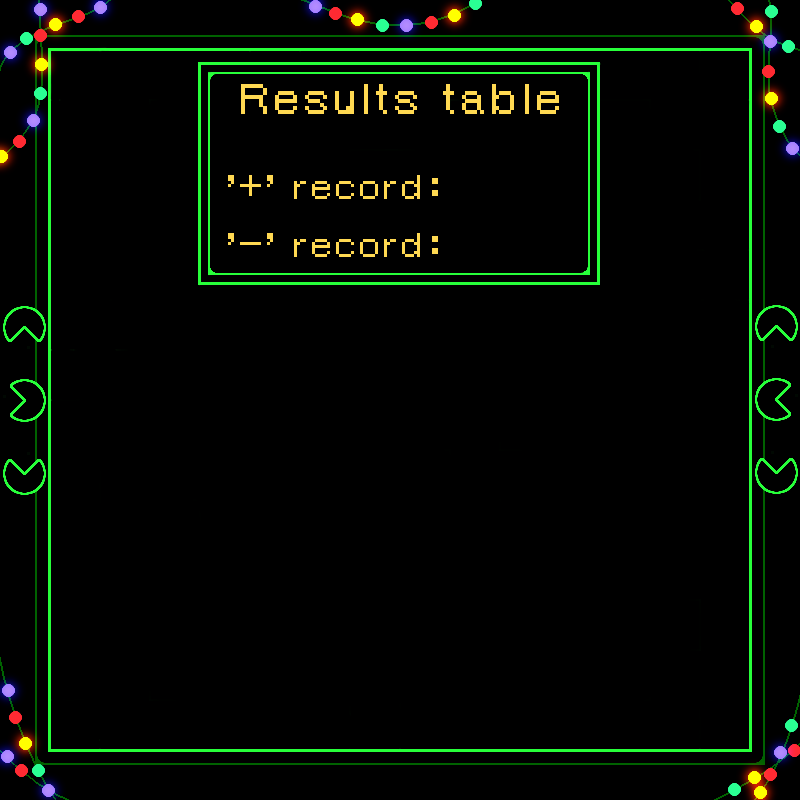
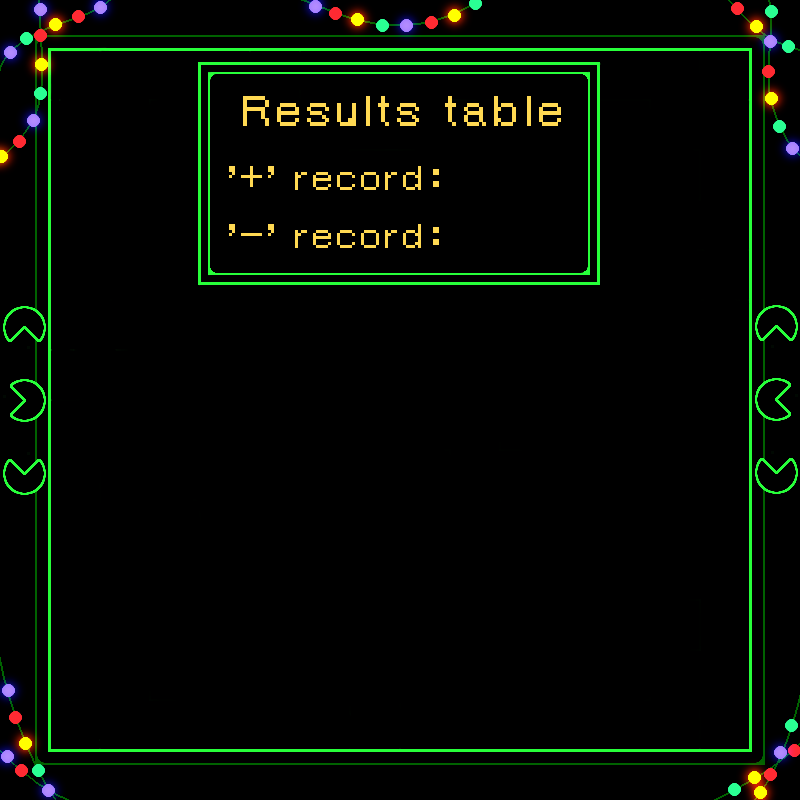
text fixed

diff --git a/main.py b/main.py
@@ -493,16 +493,18 @@ while not not_results:
         for i in range(len(all_results_text)):
             x = i // (len(all_results_text) // 2) * 390
             y = 345 + i % (len(all_results_text) // 2) * 27
-            screen.blit(all_results_text[i][0], (x + 70, y))
-            screen.blit(all_results_text[i][1], (x + 130, y))
+            w_num = all_results_text[i][0].get_width()
+            w_score = all_results_text[i][1].get_width()
+            screen.blit(all_results_text[i][0], (x + 90 - w_num, y))
+            screen.blit(all_results_text[i][1], (x + 220 - w_score, y))
             screen.blit(all_results_text[i][2], (x + 270, y))
         screen.blit(back_btn.current, back_btn.coords)
         screen.blit(total_txt, (260, 305))
-        screen.blit(total_txt, (640, 305))
+        screen.blit(total_txt, (650, 305))
         screen.blit(score_txt, (120, 305))
-        screen.blit(score_txt, (500, 305))
-        screen.blit(positive_text, (454, 167))
-        screen.blit(negative_text, (454, 225))
+        screen.blit(score_txt, (510, 305))
+        screen.blit(positive_text, (454, 157))
+        screen.blit(negative_text, (454, 215))
         pygame.display.flip()
 
 while mainrunning:
